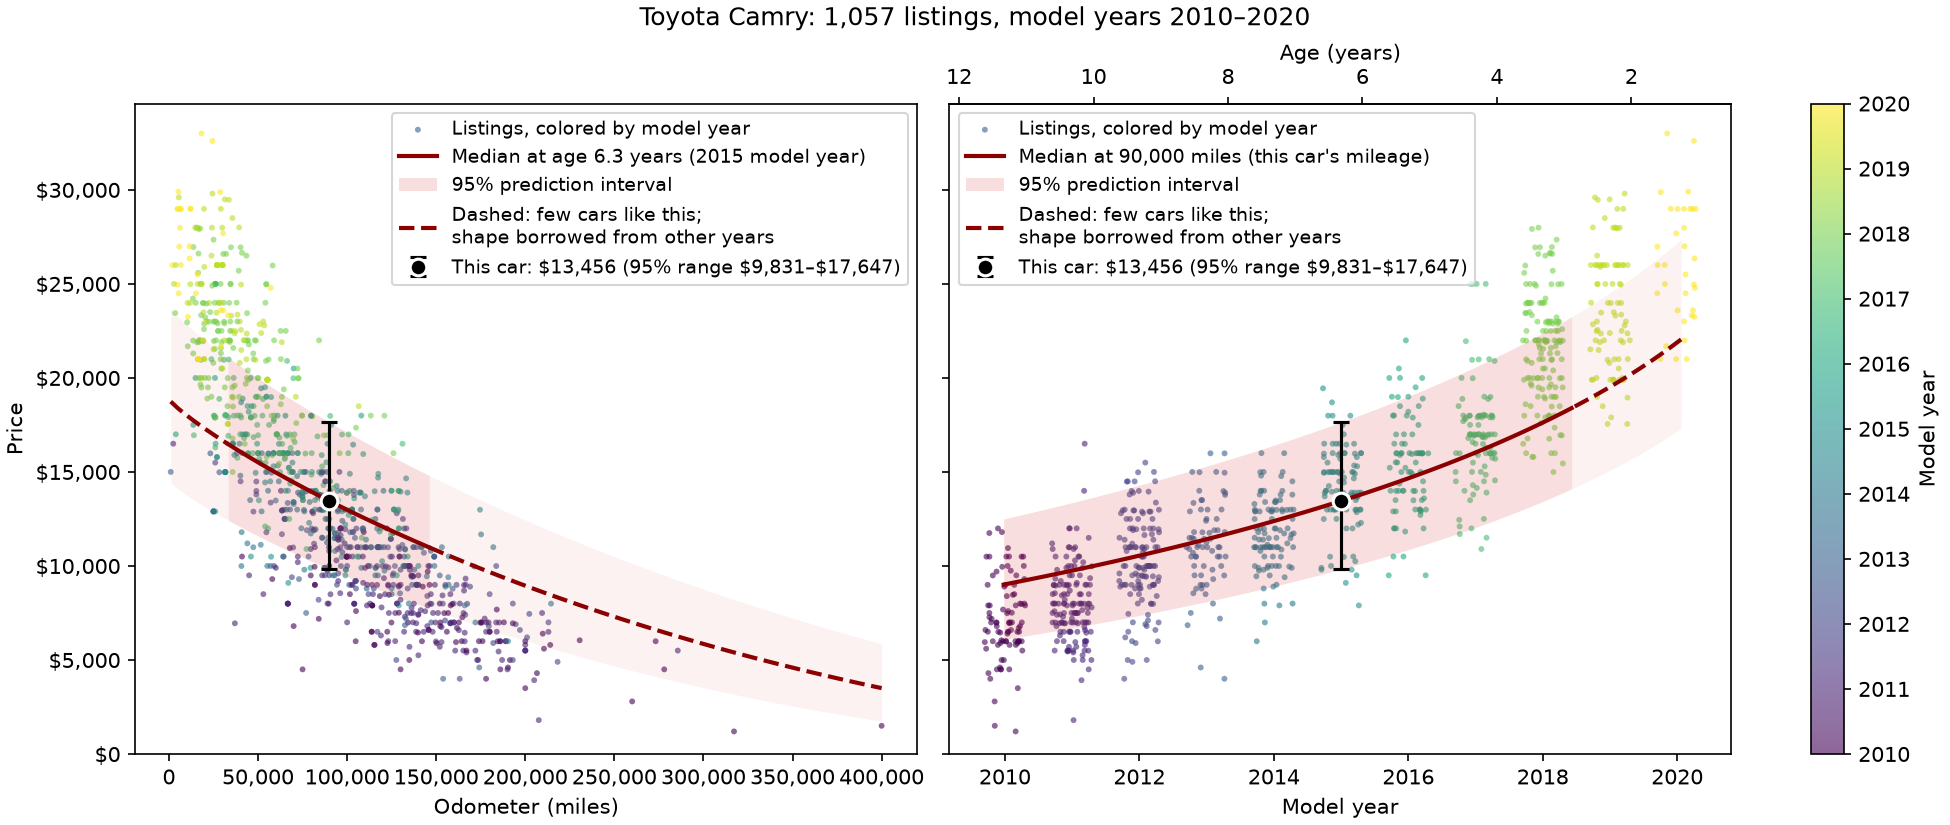
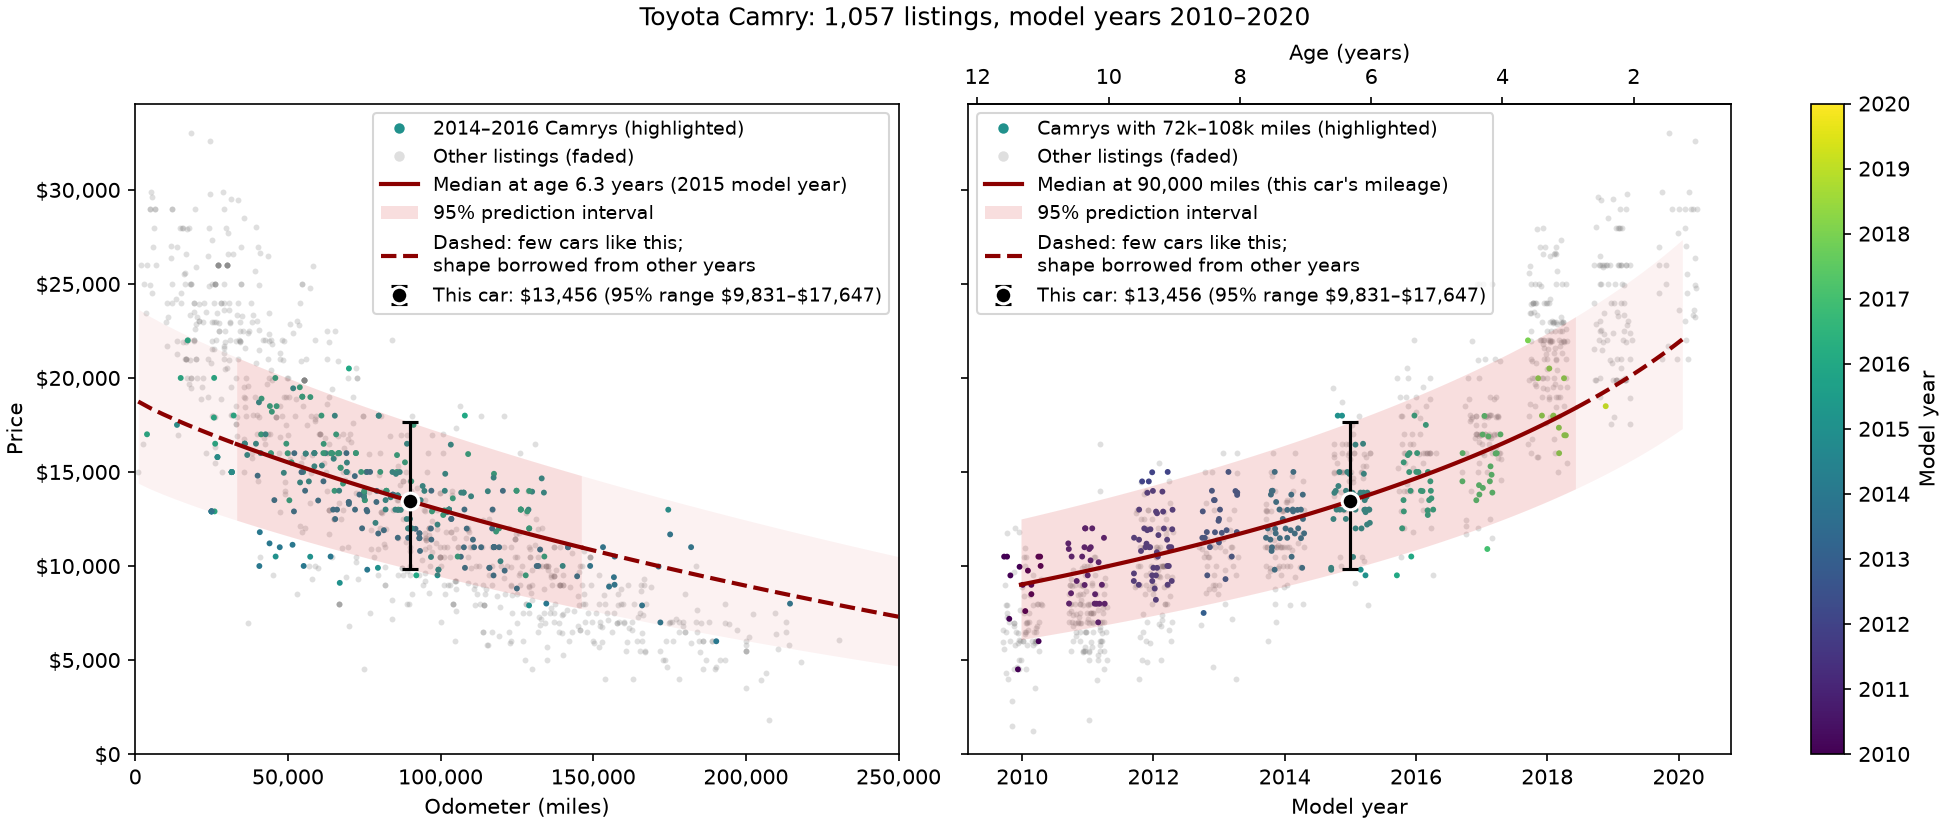
Highlight the listings each depreciation curve describes

diff --git a/src/vehicle_pricing/plots.py b/src/vehicle_pricing/plots.py
@@ -8,6 +8,7 @@ then plt.show() in a script, or let a notebook display it.
 
 import numpy as np
 import pandas as pd
+from matplotlib import colormaps
 from matplotlib.colors import Normalize
 from matplotlib.figure import Figure
 from matplotlib.lines import Line2D
@@ -28,7 +29,12 @@ BAND_ALPHA = 0.15
 ATYPICAL_BAND_ALPHA = 0.06  # lighter band where few real cars are like the curve's point
 DASHED_NOTE = "Dashed: few cars like this;\nshape borrowed from other years"  # 2 lines: narrower legend
 YEAR_COLORMAP = "viridis"  # sequential: dark = older model years, yellow = newer
-YEAR_DOT_STYLE = {"s": 8, "alpha": 0.6, "linewidths": 0, "zorder": 1}
+HIGHLIGHT_DOT_STYLE = {"s": 8, "alpha": 1.0, "linewidths": 0, "zorder": 1.5}
+FADED_DOT_STYLE = {"s": 8, "color": "grey", "alpha": 0.25, "linewidths": 0, "zorder": 1}
+HIGHLIGHT_YEARS = 1  # left panel: highlight listings within +/- this many model years of the car
+HIGHLIGHT_MILEAGE = 0.2  # right panel: highlight listings within +/- 20% of the fixed odometer
+MILEAGE_AXIS_PERCENTILE = 99  # left panel's x-axis ends at this mileage percentile...
+MILEAGE_AXIS_STEP = 50_000  # ...rounded up to a multiple of this
 JITTER_YEARS = 0.3  # spreads listings of one model year sideways so they don't overlap
 JITTER_SEED = 0
 
@@ -52,11 +58,20 @@ def plot_depreciation(
     shape is borrowed from other model years. If the listings show no clear
     age effect, the whole age curve is dashed and the panel says so.
 
-    In both panels the listings are coloured by model year, with one shared
-    colour bar. They are drawn first, so the curve, band and car stay on top.
+    Each curve describes one slice of the model, so each panel highlights
+    the listings in that slice and fades the rest: on the left, cars within
+    +/- 1 model year of the car's; on the right, cars within +/- 20% of the
+    fixed mileage. Faded listings are grey. Highlighted ones are coloured by
+    model year, on one scale shared by both panels (one colour bar). All dots
+    are drawn first, faded under highlighted, so the curve, band and car stay
+    on top. The left x-axis stops at the 99th percentile mileage,
+    rounded up to the next 50,000, so a few very high-mileage cars don't
+    squash the plot.
 
-    `title` names the vehicle; the number of listings and their model years
-    are added. `alpha` defaults to the one the curves were computed with.
+    `title` names the vehicle (make, then model, e.g. "Toyota Camry"); the
+    legend uses the model for the highlighted cars, and the title adds the
+    number of listings fitted on and their model years. `alpha` defaults to
+    the one the curves were computed with.
     """
     alpha = _check_alpha(curves, alpha)
     band_label = f"{1 - alpha:.0%} prediction interval"
@@ -66,22 +81,34 @@ def plot_depreciation(
     fig = Figure(figsize=(13, 5.5), layout="constrained")
     ax_miles, ax_years = fig.subplots(1, 2, sharey=True)
     years = listings["year"]
-    dots = {"c": years, "cmap": YEAR_COLORMAP, "norm": Normalize(years.min(), years.max()),
-            "label": "Listings, colored by model year", **YEAR_DOT_STYLE}
+    norm = Normalize(years.min(), years.max())
+    cars = _plural_name(title)
 
-    # Left: price vs. mileage, at the car's age.
+    # Left: price vs. mileage, at the car's age; highlight cars near its model year.
     mileage = curves.mileage_curve.to_frame()
-    scatter = ax_miles.scatter(listings["odometer"], listings["price"], **dots)
+    near_year = (years - curves.car_year).abs() <= HIGHLIGHT_YEARS
+    low_year, high_year = curves.car_year - HIGHLIGHT_YEARS, curves.car_year + HIGHLIGHT_YEARS
+    miles_scatter, miles_dots = _highlighted_scatter(
+        ax_miles, listings["odometer"], listings["price"], years, near_year, norm,
+        f"{low_year}–{high_year} {cars} (highlighted)",
+    )
     miles_atypical = _draw_curve(ax_miles, mileage["odometer"], mileage)
     ax_miles.set(xlabel="Odometer (miles)", ylabel="Price")
     ax_miles.xaxis.set_major_formatter(StrMethodFormatter("{x:,.0f}"))
+    ax_miles.set_xlim(0, _mileage_axis_end(listings["odometer"], car.odometer))
 
     # Right: price vs. model year, at a fixed mileage.
     ages = curves.age_curve.to_frame()
     jitter = np.random.default_rng(JITTER_SEED).uniform(
         -JITTER_YEARS, JITTER_YEARS, size=len(listings)
     )
-    ax_years.scatter(years + jitter, listings["price"], **dots)
+    fixed = curves.fixed_odometer
+    near_miles = (listings["odometer"] - fixed).abs() <= HIGHLIGHT_MILEAGE * fixed
+    low_miles, high_miles = (1 - HIGHLIGHT_MILEAGE) * fixed, (1 + HIGHLIGHT_MILEAGE) * fixed
+    _, years_dots = _highlighted_scatter(
+        ax_years, years + jitter, listings["price"], years, near_miles, norm,
+        f"{cars} with {low_miles / 1000:.0f}k–{high_miles / 1000:.0f}k miles (highlighted)",
+    )
     whose = "this car's mileage" if curves.odometer_is_cars else "median mileage"
     years_atypical = _draw_curve(
         ax_years, ages["model_year"], ages, dashed_everywhere=not curves.age_effect_clear
@@ -112,7 +139,7 @@ def plot_depreciation(
     ax_miles.set_ylim(bottom=0)
     ax_miles.yaxis.set_major_formatter(DOLLARS)
     _legend(
-        ax_miles,
+        ax_miles, miles_dots,
         f"Median at age {curves.fixed_age:.1f} years ({car.model_year:.0f} model year)",
         band_label, curve_dashed=False, dashed_note=miles_atypical, loc="upper right",
     )
@@ -121,13 +148,13 @@ def plot_depreciation(
     # is dashed for that reason, so the "few cars like this" entry is left out.
     below_note = {} if curves.age_effect_clear else {"bbox_to_anchor": (0, 0.9)}
     _legend(
-        ax_years, f"Median at {curves.fixed_odometer:,.0f} miles ({whose})", band_label,
+        ax_years, years_dots, f"Median at {curves.fixed_odometer:,.0f} miles ({whose})", band_label,
         curve_dashed=not curves.age_effect_clear,
         dashed_note=years_atypical and curves.age_effect_clear,
         loc="upper left", **below_note,
     )
 
-    colorbar = fig.colorbar(scatter, ax=[ax_miles, ax_years], label="Model year")
+    colorbar = fig.colorbar(miles_scatter, ax=[ax_miles, ax_years], label="Model year")
     colorbar.locator = MaxNLocator(integer=True)  # whole years only, never "1998, 1998"
     colorbar.update_ticks()
     span = f"{years.min()}" if years.min() == years.max() else f"{years.min()}–{years.max()}"
@@ -189,24 +216,54 @@ def _draw_curve(ax, x: pd.Series, curve: pd.DataFrame, *, dashed_everywhere: boo
     return not typical.all()
 
 
-def _legend(ax, curve_label: str, band_label: str, *, curve_dashed: bool, dashed_note: bool,
-            **legend_kwargs) -> None:
-    """Legend: listings, curve, band, optional dashed-line note, then the car if marked.
+def _highlighted_scatter(ax, x, y, years, highlight, norm, label: str) -> tuple:
+    """Scatter faded listings in grey, then highlighted ones coloured by model year on top.
+
+    Returns the highlighted scatter (for the colour bar) and the legend items
+    [(handle, label)]; the highlighted entry uses a stand-in marker in one
+    mid-scale colour.
+    """
+    ax.scatter(x[~highlight], y[~highlight], **FADED_DOT_STYLE)
+    shown = ax.scatter(x[highlight], y[highlight], c=years[highlight],
+                       cmap=YEAR_COLORMAP, norm=norm, **HIGHLIGHT_DOT_STYLE)
+    swatch = {"marker": "o", "linestyle": "", "markersize": 5, "markeredgewidth": 0}
+    faded_swatch = {**swatch, "color": FADED_DOT_STYLE["color"], "alpha": FADED_DOT_STYLE["alpha"]}
+    return shown, [
+        (Line2D([], [], color=colormaps[YEAR_COLORMAP](0.5), **swatch), label),
+        (Line2D([], [], **faded_swatch), "Other listings (faded)"),
+    ]
+
+
+def _plural_name(title: str) -> str:
+    """'Toyota Camry' -> 'Camrys': the model (the title minus the make), made plural."""
+    words = title.split()
+    return " ".join(words[1:] if len(words) > 1 else words) + "s"
+
+
+def _mileage_axis_end(odometer: pd.Series, car_odometer: float | None) -> float:
+    """99th percentile mileage (or the car's, if higher), rounded up to the next 50,000."""
+    end = np.percentile(odometer, MILEAGE_AXIS_PERCENTILE)
+    if car_odometer is not None:
+        end = max(end, car_odometer)
+    return float(np.ceil(end / MILEAGE_AXIS_STEP) * MILEAGE_AXIS_STEP)
+
+
+def _legend(ax, dot_items: list, curve_label: str, band_label: str, *, curve_dashed: bool,
+            dashed_note: bool, **legend_kwargs) -> None:
+    """Legend: highlighted and faded listings, curve, band, dashed-line note, then the car.
 
     The curve is drawn in pieces, so its entries are stand-in handles.
     """
-    handles, labels = ax.get_legend_handles_labels()  # the listings, and the car if marked
-    entries = dict(zip(labels, handles))
-    listings_label = next(label for label in labels if label.startswith("Listings"))
+    handles, labels = ax.get_legend_handles_labels()  # only the car, if marked
     items = [
-        (entries.pop(listings_label), listings_label),
+        *dot_items,
         (Line2D([], [], color=CURVE_COLOR, linewidth=2,
                 linestyle="--" if curve_dashed else "-"), curve_label),
         (Patch(color=BAND_COLOR, alpha=BAND_ALPHA, linewidth=0), band_label),
     ]
     if dashed_note:
         items.append((Line2D([], [], color=CURVE_COLOR, linewidth=2, linestyle="--"), DASHED_NOTE))
-    items += [(handle, label) for label, handle in entries.items()]
+    items += list(zip(handles, labels))
     ax.legend(*zip(*items), fontsize=9, **legend_kwargs)
 
 

diff --git a/tests/test_plots.py b/tests/test_plots.py
@@ -9,6 +9,10 @@ from vehicle_pricing.schemas import VehicleQuery
 CAMRY_2015_90K = VehicleQuery(manufacturer="toyota", model="camry", year=2015, odometer=90_000)
 
 
+def _legend_labels(fig, panel):
+    return [t.get_text() for t in fig.axes[panel].get_legend().get_texts()]
+
+
 def _age_curve_styles(fig):
     """Line styles of the age curve's pieces (the curve-coloured lines in the right panel)."""
     return {line.get_linestyle() for line in fig.axes[1].get_lines()
@@ -23,6 +27,10 @@ def test_plot_depreciation_with_mileage_returns_figure(camry_listings, camry_mod
     assert isinstance(fig, Figure)
     assert len(fig.axes) >= 2
     assert "-" in _age_curve_styles(fig)  # clear age effect: solid where typical
+    assert "2014–2016 Camrys (highlighted)" in _legend_labels(fig, 0)
+    assert "Camrys with 72k–108k miles (highlighted)" in _legend_labels(fig, 1)
+    assert "Other listings (faded)" in _legend_labels(fig, 0)
+    assert fig.axes[0].get_xlim()[1] % 50_000 == 0  # mileage axis ends on a round 50k
 
 
 def test_plot_depreciation_without_mileage_returns_figure(camry_listings, camry_model):
@@ -52,3 +60,15 @@ def test_plot_residuals_returns_figure(camry_listings, camry_model):
     curves = depreciation_curves(camry_model, CAMRY_2015_90K)
 
     assert isinstance(plot_residuals(camry_listings, camry_model, curves), Figure)
+
+
+def test_plot_depreciation_for_a_range_query(camry_listings, camry_model):
+    # Like the Civic baseline query: a year range, no single year.
+    query = VehicleQuery(manufacturer="toyota", model="camry", year_min=2012, year_max=2016,
+                         odometer=120_000)
+    curves = depreciation_curves(camry_model, query)
+
+    fig = plot_depreciation(camry_listings, curves, title="Toyota Camry")
+
+    assert isinstance(fig, Figure)
+    assert "2013–2015 Camrys (highlighted)" in _legend_labels(fig, 0)  # midpoint 2014

diff --git a/src/vehicle_pricing/model.py b/src/vehicle_pricing/model.py
@@ -406,6 +406,7 @@ class DepreciationCurves(BaseModel):
     fixed_age: float  # years; age held constant along the mileage curve
     fixed_odometer: float  # miles; mileage held constant along the age curve
     odometer_is_cars: bool  # True: fixed_odometer is the car's; False: the median
+    car_year: int  # the car's model year, from car_model_year
     typical_range: tuple[float, float] | None  # typical mileage for the car's model year
     car: CarPoint
     age_t_stat: float  # b2 divided by its standard error
@@ -454,7 +455,8 @@ def depreciation_curves(
     else:
         c_est = c_lo = c_hi = None
 
-    typical_range = typical_mileage_range(model, car_model_year(model, query))
+    car_year = car_model_year(model, query)
+    typical_range = typical_mileage_range(model, car_year)
     mileage_typical = [_is_typical(o, typical_range) for o in miles]
     age_typical = [
         _is_typical(odometer, typical_mileage_range(model, _round_half_up(model.ref_year - a)))
@@ -480,6 +482,7 @@ def depreciation_curves(
         fixed_age=age,
         fixed_odometer=float(odometer),
         odometer_is_cars=odometer_is_cars,
+        car_year=car_year,
         typical_range=typical_range,
         car=CarPoint(
             age=age,
